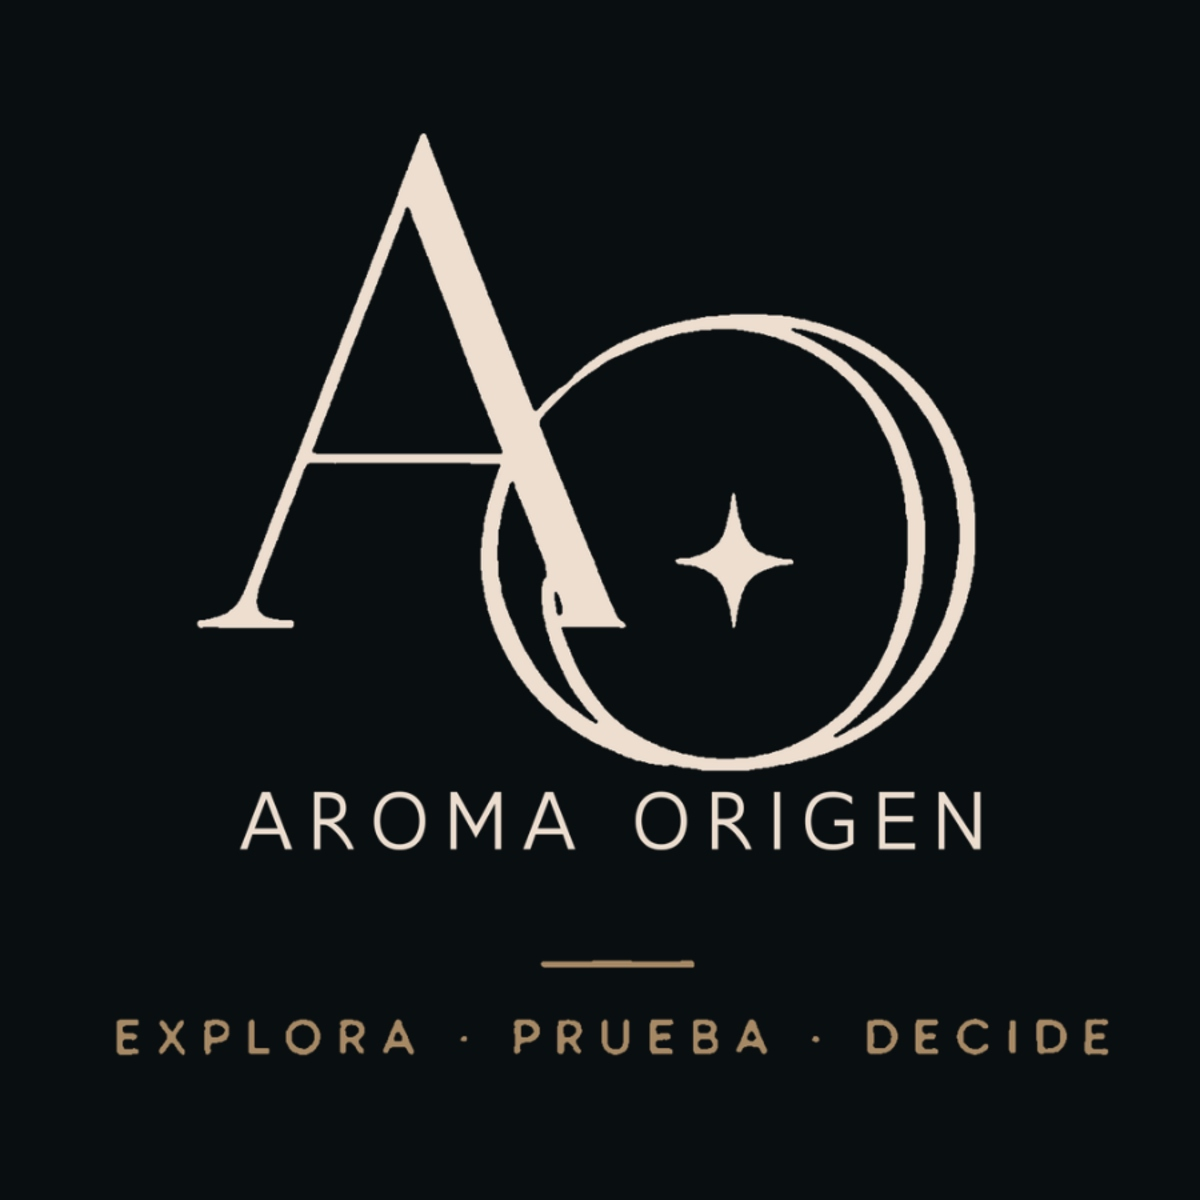
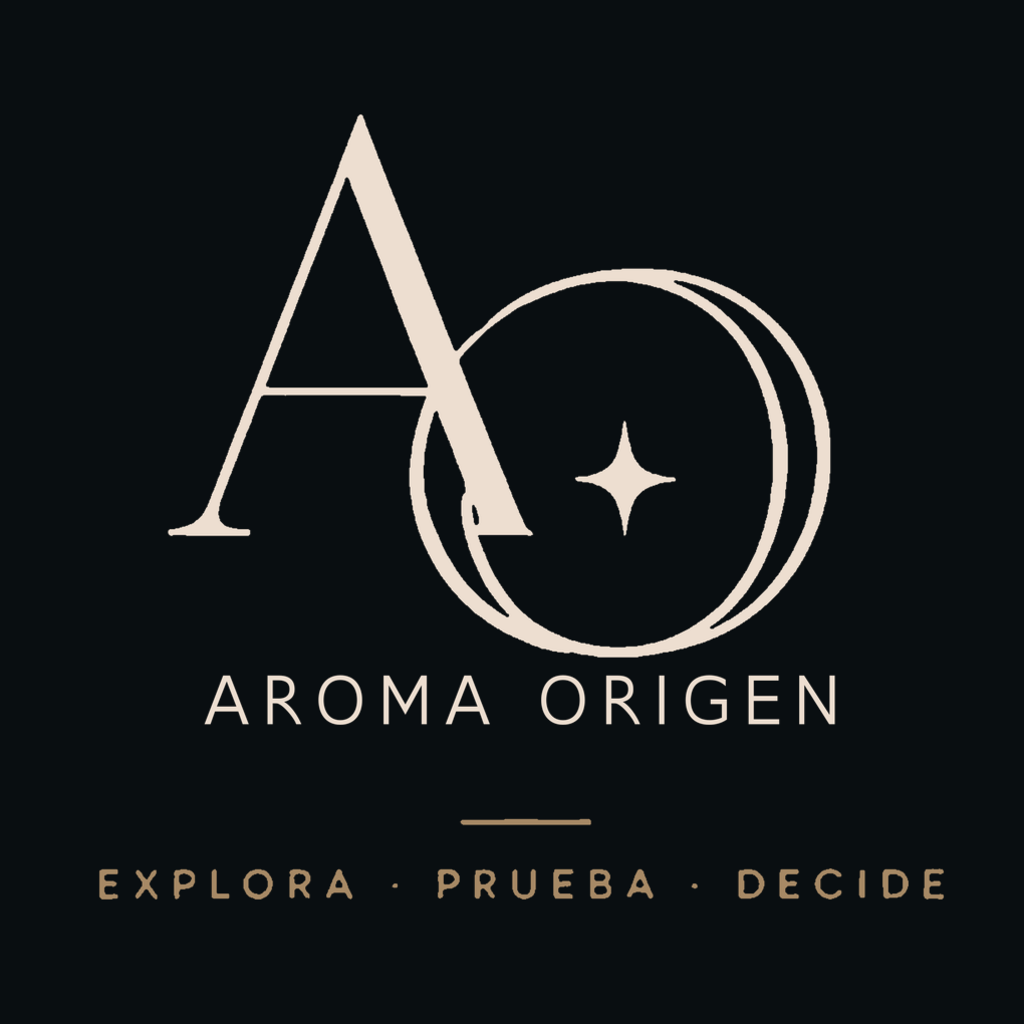
Agregar genero a los perfumes

diff --git a/src/screens/PerfumesListScreen.js b/src/screens/PerfumesListScreen.js
@@ -36,6 +36,7 @@ function getPerfumeSearchText(perfume) {
     perfume.marca,
     perfume.descripcion_olor,
     perfume.categoria_perfume,
+    perfume.genero_perfume,
     perfume.notas_salida,
     perfume.notas_corazon,
     perfume.notas_fondo,
@@ -51,6 +52,10 @@ function getSuggestionDetail(perfume, searchText) {
     return `Tipo: ${perfume.categoria_perfume}`;
   }
 
+  if (normalizeText(perfume.genero_perfume).includes(searchText)) {
+    return `Genero: ${perfume.genero_perfume}`;
+  }
+
   return perfume.marca || perfume.categoria_perfume || 'Perfume';
 }
 
@@ -61,12 +66,20 @@ const typeFilters = [
   { label: 'Arabe', value: 'arabe' },
 ];
 
+const genderFilters = [
+  { label: 'Todos', value: 'all' },
+  { label: 'Mujer', value: 'mujer' },
+  { label: 'Hombre', value: 'hombre' },
+  { label: 'Unisex', value: 'unisex' },
+];
+
 export default function PerfumesListScreen({ navigation }) {
   const [perfumes, setPerfumes] = useState([]);
   const [inactivePerfumes, setInactivePerfumes] = useState([]);
   const [search, setSearch] = useState('');
   const [filtersOpen, setFiltersOpen] = useState(false);
   const [selectedType, setSelectedType] = useState('all');
+  const [selectedGender, setSelectedGender] = useState('all');
   const [selectedBrand, setSelectedBrand] = useState('all');
   const [brandSearch, setBrandSearch] = useState('');
   const [loading, setLoading] = useState(true);
@@ -99,11 +112,12 @@ export default function PerfumesListScreen({ navigation }) {
     return perfumes.filter((perfume) => {
       const matchesSearch = !searchText || getPerfumeSearchText(perfume).includes(searchText);
       const matchesType = selectedType === 'all' || perfume.categoria_perfume === selectedType;
+      const matchesGender = selectedGender === 'all' || perfume.genero_perfume === selectedGender;
       const matchesBrand = selectedBrand === 'all' || perfume.marca === selectedBrand;
 
-      return matchesSearch && matchesType && matchesBrand;
+      return matchesSearch && matchesType && matchesGender && matchesBrand;
     });
-  }, [perfumes, searchText, selectedBrand, selectedType]);
+  }, [perfumes, searchText, selectedBrand, selectedGender, selectedType]);
   const availableBrands = useMemo(() => {
     const brands = [...new Set(perfumes.map((perfume) => perfume.marca).filter(Boolean))]
       .sort((a, b) => a.localeCompare(b));
@@ -117,6 +131,7 @@ export default function PerfumesListScreen({ navigation }) {
   }, [brandSearch, perfumes]);
   const activeFiltersCount = [
     selectedType !== 'all',
+    selectedGender !== 'all',
     selectedBrand !== 'all',
   ].filter(Boolean).length;
   const suggestions = useMemo(() => {
@@ -185,6 +200,25 @@ export default function PerfumesListScreen({ navigation }) {
             })}
           </ScrollView>
 
+          <Text style={styles.filterLabel}>Genero</Text>
+          <ScrollView horizontal showsHorizontalScrollIndicator={false} contentContainerStyle={styles.filterChipRow}>
+            {genderFilters.map((filter) => {
+              const selected = selectedGender === filter.value;
+
+              return (
+                <Pressable
+                  key={filter.value}
+                  onPress={() => setSelectedGender(filter.value)}
+                  style={[styles.filterChip, selected && styles.filterChipActive]}
+                >
+                  <Text style={[styles.filterChipText, selected && styles.filterChipTextActive]}>
+                    {filter.label}
+                  </Text>
+                </Pressable>
+              );
+            })}
+          </ScrollView>
+
           <Text style={styles.filterLabel}>Marca</Text>
           <SearchBar
             value={brandSearch}
@@ -221,6 +255,7 @@ export default function PerfumesListScreen({ navigation }) {
             <Pressable
               onPress={() => {
                 setSelectedType('all');
+                setSelectedGender('all');
                 setSelectedBrand('all');
                 setBrandSearch('');
               }}
@@ -366,6 +401,9 @@ function PerfumeCard({ perfume, onPress, onEdit, onDelete }) {
           <Text style={styles.cardBrand}>{perfume.marca || 'Marca Exclusiva'}</Text>
           {!!perfume.categoria_perfume && (
             <Text style={styles.cardCategory}>{perfume.categoria_perfume}</Text>
+          )}
+          {!!perfume.genero_perfume && (
+            <Text style={styles.cardCategory}>{perfume.genero_perfume}</Text>
           )}
         </View>
         <Feather name="chevron-right" size={18} color={colors.textSubtle} />

diff --git a/src/screens/HomeScreen.js b/src/screens/HomeScreen.js
@@ -31,6 +31,13 @@ const perfumeTypeFilters = [
   { label: 'Arabe', value: 'arabe' },
 ];
 
+const perfumeGenderFilters = [
+  { label: 'Todos', value: 'all' },
+  { label: 'Mujer', value: 'mujer' },
+  { label: 'Hombre', value: 'hombre' },
+  { label: 'Unisex', value: 'unisex' },
+];
+
 function normalizeText(value) {
   return String(value || '')
     .normalize('NFD')
@@ -44,6 +51,7 @@ export default function HomeScreen() {
   const [prices, setPrices] = useState([]);
   const [search, setSearch] = useState('');
   const [selectedType, setSelectedType] = useState('all');
+  const [selectedGender, setSelectedGender] = useState('all');
   const [selectedBrand, setSelectedBrand] = useState('all');
   const [brandSearch, setBrandSearch] = useState('');
   const [filtersOpen, setFiltersOpen] = useState(false);
@@ -82,17 +90,19 @@ export default function HomeScreen() {
         perfume.marca,
         perfume.descripcion_olor,
         perfume.categoria_perfume,
+        perfume.genero_perfume,
         perfume.notas_salida,
         perfume.notas_corazon,
         perfume.notas_fondo,
       ].join(' '));
       const matchesSearch = !searchText || searchableText.includes(searchText);
       const matchesType = selectedType === 'all' || perfume.categoria_perfume === selectedType;
+      const matchesGender = selectedGender === 'all' || perfume.genero_perfume === selectedGender;
       const matchesBrand = selectedBrand === 'all' || perfume.marca === selectedBrand;
 
-      return matchesSearch && matchesType && matchesBrand;
+      return matchesSearch && matchesType && matchesGender && matchesBrand;
     });
-  }, [perfumes, searchText, selectedBrand, selectedType]);
+  }, [perfumes, searchText, selectedBrand, selectedGender, selectedType]);
   const availableBrands = useMemo(() => {
     const brands = [...new Set(perfumes.map((perfume) => perfume.marca).filter(Boolean))]
       .sort((a, b) => a.localeCompare(b));
@@ -106,6 +116,7 @@ export default function HomeScreen() {
   }, [brandSearch, perfumes]);
   const activeFiltersCount = [
     selectedType !== 'all',
+    selectedGender !== 'all',
     selectedBrand !== 'all',
   ].filter(Boolean).length;
 
@@ -135,7 +146,7 @@ export default function HomeScreen() {
       <SearchBar
         value={search}
         onChangeText={setSearch}
-        placeholder="Buscar por aroma, marca, tipo o nombre..."
+        placeholder="Buscar por aroma, marca, tipo, genero o nombre..."
       />
 
       <Pressable onPress={() => setFiltersOpen((open) => !open)} style={styles.filterToggle}>
@@ -162,6 +173,25 @@ export default function HomeScreen() {
                 <Pressable
                   key={filter.value}
                   onPress={() => setSelectedType(filter.value)}
+                  style={[styles.filterChip, selected && styles.filterChipActive]}
+                >
+                  <Text style={[styles.filterChipText, selected && styles.filterChipTextActive]}>
+                    {filter.label}
+                  </Text>
+                </Pressable>
+              );
+            })}
+          </ScrollView>
+
+          <Text style={styles.filterLabel}>Genero</Text>
+          <ScrollView horizontal showsHorizontalScrollIndicator={false} contentContainerStyle={styles.filterChipRow}>
+            {perfumeGenderFilters.map((filter) => {
+              const selected = selectedGender === filter.value;
+
+              return (
+                <Pressable
+                  key={filter.value}
+                  onPress={() => setSelectedGender(filter.value)}
                   style={[styles.filterChip, selected && styles.filterChipActive]}
                 >
                   <Text style={[styles.filterChipText, selected && styles.filterChipTextActive]}>
@@ -208,6 +238,7 @@ export default function HomeScreen() {
             <Pressable
               onPress={() => {
                 setSelectedType('all');
+                setSelectedGender('all');
                 setSelectedBrand('all');
                 setBrandSearch('');
               }}
@@ -257,6 +288,9 @@ export default function HomeScreen() {
                 <Text style={styles.cardBrand}>{perfume.marca || 'Marca Exclusiva'}</Text>
                 {!!perfume.categoria_perfume && (
                   <Text style={styles.cardCategory}>{perfume.categoria_perfume}</Text>
+                )}
+                {!!perfume.genero_perfume && (
+                  <Text style={styles.cardCategory}>{perfume.genero_perfume}</Text>
                 )}
                 {!!perfume.duracion && (
                   <View style={styles.duracionRow}>

diff --git a/src/screens/PerfumeFormScreen.js b/src/screens/PerfumeFormScreen.js
@@ -25,6 +25,7 @@ const initialForm = {
   imagen: '',
   descripcion_olor: '',
   categoria_perfume: 'diseñador',
+  genero_perfume: 'unisex',
   duracion: '',
   ml_botella_completa: '',
   precio_liverpool: '',
@@ -39,6 +40,12 @@ const perfumeCategories = [
   { label: 'Arabe', value: 'arabe' },
 ];
 
+const perfumeGenders = [
+  { label: 'Mujer', value: 'mujer' },
+  { label: 'Hombre', value: 'hombre' },
+  { label: 'Unisex', value: 'unisex' },
+];
+
 function getInitialForm(perfume) {
   if (!perfume) {
     return initialForm;
@@ -50,6 +57,7 @@ function getInitialForm(perfume) {
     imagen: perfume.imagen || '',
     descripcion_olor: perfume.descripcion_olor || '',
     categoria_perfume: perfume.categoria_perfume || 'diseñador',
+    genero_perfume: perfume.genero_perfume || 'unisex',
     duracion: perfume.duracion || '',
     ml_botella_completa: String(perfume.ml_botella_completa || ''),
     precio_liverpool: String(perfume.precio_liverpool || ''),
@@ -201,6 +209,25 @@ export default function PerfumeFormScreen({ navigation, route }) {
                 >
                   <Text style={[styles.segmentText, selected && styles.segmentTextActive]}>
                     {category.label}
+                  </Text>
+                </Pressable>
+              );
+            })}
+          </View>
+
+          <Text style={styles.fieldLabel}>Genero</Text>
+          <View style={styles.segmentRow}>
+            {perfumeGenders.map((gender) => {
+              const selected = form.genero_perfume === gender.value;
+
+              return (
+                <Pressable
+                  key={gender.value}
+                  onPress={() => updateField('genero_perfume', gender.value)}
+                  style={[styles.segment, selected && styles.segmentActive]}
+                >
+                  <Text style={[styles.segmentText, selected && styles.segmentTextActive]}>
+                    {gender.label}
                   </Text>
                 </Pressable>
               );

diff --git a/app.config.js b/app.config.js
@@ -18,11 +18,16 @@ export default {
       firebaseMeasurementId: process.env.FIREBASE_MEASUREMENT_ID,
       cloudinaryCloudName: process.env.CLOUDINARY_CLOUD_NAME,
       cloudinaryUploadPreset: process.env.CLOUDINARY_UPLOAD_PRESET,
+
+      eas: {
+        projectId: "90b3687d-497f-4802-adbc-c4227f7f3476",
+      },
     },
     ios: {
       supportsTablet: true
     },
     android: {
+      package: "com.perfumesaroma.perfumes",
       adaptiveIcon: {
         backgroundColor: "#090A0D",
         foregroundImage: "./assets/android-icon-foreground.png",

diff --git a/src/screens/PerfumeDetailScreen.js b/src/screens/PerfumeDetailScreen.js
@@ -251,6 +251,9 @@ export default function PerfumeDetailScreen({ route }) {
           {!!perfume.categoria_perfume && (
             <Text style={styles.categoryText}>{perfume.categoria_perfume}</Text>
           )}
+          {!!perfume.genero_perfume && (
+            <Text style={styles.categoryText}>{perfume.genero_perfume}</Text>
+          )}
           {!!perfume.descripcion_olor && (
             <Text style={styles.description}>{perfume.descripcion_olor}</Text>
           )}

diff --git a/src/services/perfumesService.js b/src/services/perfumesService.js
@@ -60,6 +60,7 @@ export async function createPerfume(perfumeData) {
     imagen: perfumeData.imagen.trim(),
     descripcion_olor: perfumeData.descripcion_olor.trim(),
     categoria_perfume: perfumeData.categoria_perfume || 'diseñador',
+    genero_perfume: perfumeData.genero_perfume || 'unisex',
     duracion: perfumeData.duracion.trim(),
     ml_botella_completa: Number(perfumeData.ml_botella_completa) || 0,
     precio_liverpool: Number(perfumeData.precio_liverpool) || 0,
@@ -83,6 +84,7 @@ export async function updatePerfume(perfumeId, perfumeData) {
     imagen: perfumeData.imagen.trim(),
     descripcion_olor: perfumeData.descripcion_olor.trim(),
     categoria_perfume: perfumeData.categoria_perfume || 'diseñador',
+    genero_perfume: perfumeData.genero_perfume || 'unisex',
     duracion: perfumeData.duracion.trim(),
     ml_botella_completa: Number(perfumeData.ml_botella_completa) || 0,
     precio_liverpool: Number(perfumeData.precio_liverpool) || 0,

diff --git a/src/screens/SaleFormScreen.js b/src/screens/SaleFormScreen.js
@@ -212,6 +212,7 @@ export default function SaleFormScreen({ navigation }) {
         perfume.marca,
         perfume.descripcion_olor,
         perfume.categoria_perfume,
+        perfume.genero_perfume,
       ].join(' ')).includes(searchText)
     );
   }, [perfumes, perfumeSearch]);